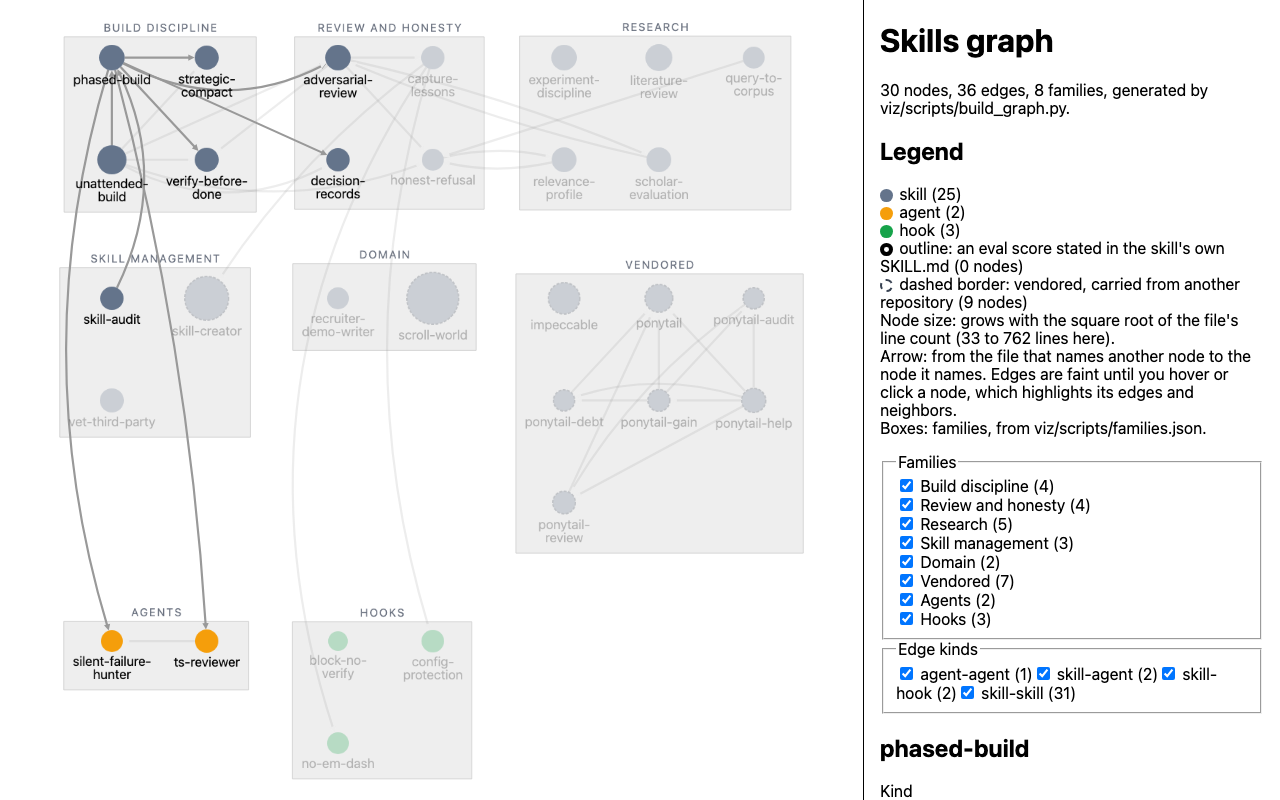
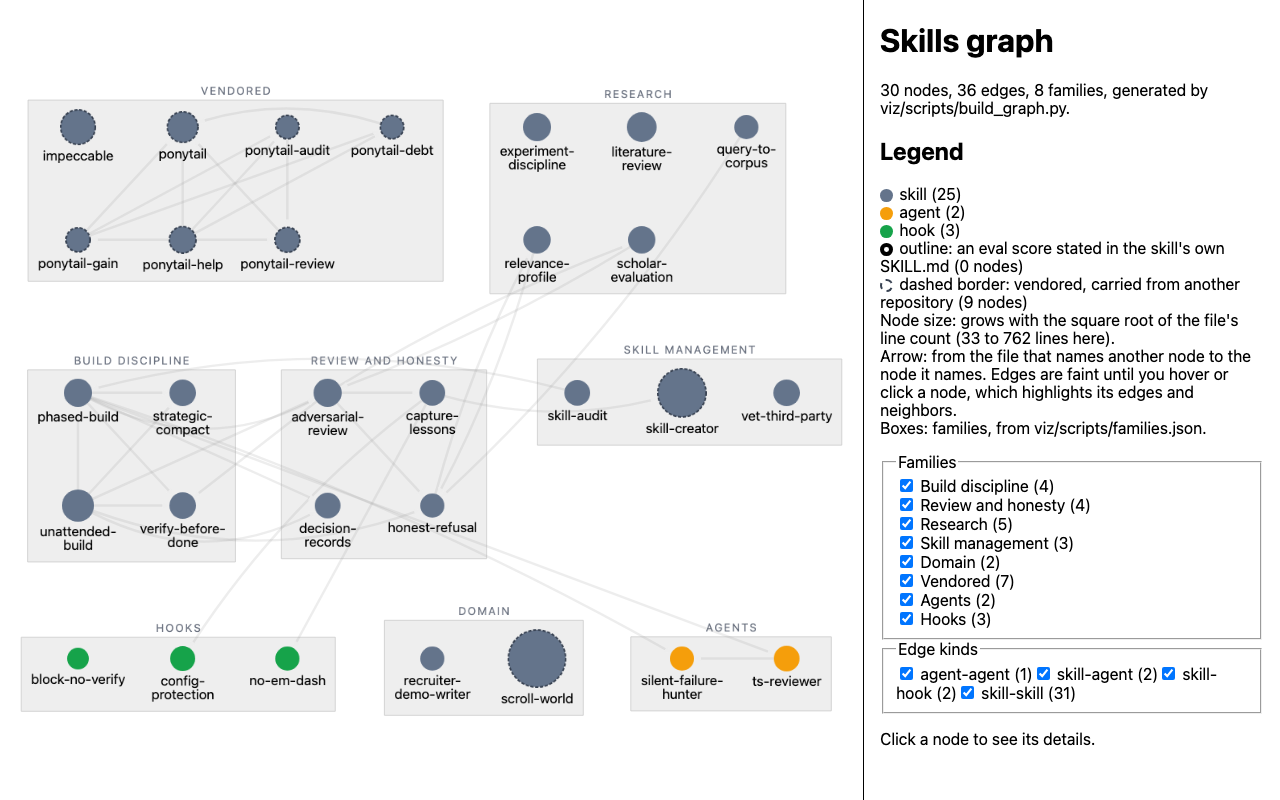
feat(viz): packed family layout and two screenshots (F7, F8)
F8: family cells are ordered by member count and packed into rows
(first fit, decreasing height), choosing the row width that fits the
viewport at the largest zoom. A family uses ceil(sqrt(n)) columns,
widened until its last row holds more than one member (7 is 4 + 3).
Smoke checks the reading order, the last rows, and that no empty
rectangle covers more than a tenth of the canvas (7.0% now; the old
layout measured 10.9%).

F7: viz/screenshot.png is the default view, nothing selected or
hovered; viz/screenshot-focus.png shows phased-build selected. Both are
written by the smoke test and shown in viz/README.md.

npm test 26 of 26; smoke exit 0 (smallest label 13.7 px).

diff --git a/viz/app.js b/viz/app.js
@@ -96,43 +96,61 @@ function toElements(graph) {
   return parents.concat(nodes, edges);
 }
 
-// Each family gets its own cell so family boxes never overlap: cells are sized
-// by member count (a near-square grid of fixed slots, one per member) and
-// arranged in a grid of cells. The number of cell columns is the one that lets
-// the whole graph fit the viewport at the largest zoom, which keeps labels as
-// large as possible. Members are placed inside their cell by Cytoscape's
-// built-in grid layout.
+// Each family gets its own cell so family boxes never overlap. A cell is a grid
+// of fixed slots, one per member. Cells are ordered by member count, largest
+// first, and packed into rows (first fit, by decreasing height). Every row width
+// in a range is tried, and the packing that fits the viewport at the largest zoom
+// wins, which fills the canvas and keeps labels as large as possible. Members are
+// placed inside their cell by Cytoscape's built-in grid layout.
 const SLOT = { w: 130, h: 140 };
 const GAP = 50;
 
-function placeCells(shapes, cols) {
-  const colW = [];
-  const rowH = [];
-  shapes.forEach((s, i) => {
-    const col = i % cols;
-    const row = Math.floor(i / cols);
-    colW[col] = Math.max(colW[col] || 0, s.w);
-    rowH[row] = Math.max(rowH[row] || 0, s.h);
-  });
-  const offset = (sizes, n) => sizes.slice(0, n).reduce((sum, size) => sum + size + GAP, 0);
-  return {
-    w: offset(colW, colW.length) - GAP,
-    h: offset(rowH, rowH.length) - GAP,
-    cells: shapes.map((s, i) => ({ ...s, x1: offset(colW, i % cols), y1: offset(rowH, Math.floor(i / cols)) })),
-  };
+// Columns per family: start at ceil(sqrt(n)) and widen until the last row holds
+// more than one member (ceil(sqrt(n)) alone leaves a lone member for n = 3 or 7).
+function familyColumns(n) {
+  if (n <= 1) return 1;
+  let cols = Math.ceil(Math.sqrt(n));
+  while (cols < n && n % cols === 1) cols += 1;
+  return cols;
+}
+
+function packRows(shapes, width) {
+  const rows = [];
+  const cells = [];
+  for (const s of shapes) {
+    let row = rows.find((r) => s.h <= r.h && r.used + (r.used ? GAP : 0) + s.w <= width);
+    if (!row) {
+      const prev = rows[rows.length - 1];
+      row = { y: prev ? prev.y + prev.h + GAP : 0, h: s.h, used: 0 };
+      rows.push(row);
+    }
+    const x1 = row.used ? row.used + GAP : 0;
+    cells.push({ ...s, x1, y1: row.y });
+    row.used = x1 + s.w;
+  }
+  const last = rows[rows.length - 1];
+  return { cells, w: Math.max(...rows.map((r) => r.used)), h: last.y + last.h };
 }
 
 function familyCells(families, aspect = 1) {
-  const shapes = families.map((f) => {
-    const c = Math.max(1, Math.ceil(Math.sqrt(f.count)));
-    const r = Math.max(1, Math.ceil(f.count / c));
-    return { id: f.id, cols: c, rows: r, w: c * SLOT.w, h: r * SLOT.h };
-  });
+  const shapes = families
+    .map((f, index) => ({ f, index }))
+    .sort((a, b) => b.f.count - a.f.count || a.index - b.index)
+    .map(({ f }) => {
+      const c = familyColumns(f.count);
+      const r = Math.max(1, Math.ceil(f.count / c));
+      return { id: f.id, count: f.count, cols: c, rows: r, w: c * SLOT.w, h: r * SLOT.h };
+    });
+  const widest = Math.max(...shapes.map((s) => s.w));
+  const total = shapes.reduce((sum, s) => sum + s.w + GAP, -GAP);
   let best = null;
-  for (let cols = 1; cols <= Math.max(1, shapes.length); cols++) {
-    const placed = placeCells(shapes, cols);
-    const scale = Math.min(aspect / placed.w, 1 / placed.h);
-    if (!best || scale > best.scale) best = { scale, cells: placed.cells };
+  for (let width = widest; width <= total; width += SLOT.w / 2) {
+    const packed = packRows(shapes, width);
+    const scale = Math.min(aspect / packed.w, 1 / packed.h);
+    const fill = shapes.reduce((sum, s) => sum + s.w * s.h, 0) / (packed.w * packed.h);
+    if (!best || scale > best.scale + 1e-9 || (Math.abs(scale - best.scale) <= 1e-9 && fill > best.fill)) {
+      best = { scale, fill, cells: packed.cells };
+    }
   }
   return best.cells;
 }
@@ -254,6 +272,7 @@ if (typeof module === 'object' && module.exports) {
     toElements,
     nodeDetails,
     familyCells,
+    familyColumns,
     layoutFamilies,
     sizeLabels,
     isMeasured,

diff --git a/viz/README.md b/viz/README.md
@@ -2,14 +2,20 @@
 
 A static page that shows every skill, agent, and hook in this repo as a node, clustered by family, with the references between them. The data in `data/graph.json` is generated from the files by `scripts/build_graph.py` and is never edited by hand.
 
+![The skills graph with nothing selected](screenshot.png)
+
+![The skills graph with phased-build selected: its edges and neighbors at full opacity, everything else dimmed](screenshot-focus.png)
+
+`screenshot.png` is the default view, with nothing selected or hovered. `screenshot-focus.png` shows `phased-build` selected, which is also what hovering a node does. Both are written by the smoke test below.
+
 - Regenerate the data: `python3 viz/scripts/build_graph.py` (from the repo root; standard library only).
 - View the page: `python3 -m http.server 8123 --bind 127.0.0.1 --directory viz`, then open http://127.0.0.1:8123/. It needs a server because the page fetches `data/graph.json`, which browsers block from `file://`. `--bind 127.0.0.1` keeps the server off the network.
 - Run the extractor tests: `python3 -m unittest discover viz/scripts`.
 - Run the page tests (no browser): `node --test viz/scripts/test_app.cjs viz/scripts/test_panel.cjs`. `test_panel.cjs` runs the real `app.js` against a small fake DOM, taps every node, and checks each detail panel against `graph.json`; it checks the page's logic, not its drawing.
 - Run the layout test (headless Cytoscape, no browser): `node --test viz/scripts/test_layout.cjs`. `npm test` in `viz/` runs all three Node test files.
-- Smoke-test the rendered page: install the dev-only Playwright once with `cd viz && PLAYWRIGHT_SKIP_BROWSER_DOWNLOAD=1 npm ci --ignore-scripts` (pinned to 1.63.0 in `viz/package.json`; it drives Chromium build 1243, which must already be in the Playwright browser cache, or run `npx playwright install chromium` to fetch it). Then, with the server above running, `node viz/scripts/smoke.mjs http://127.0.0.1:8123/`. It checks the rendered node, edge, and family counts against `graph.json`, checks that no two family boxes overlap, checks each node's color against its kind and the outline against its eval status, checks the legend, checks that the smallest node label is at least 13 px as drawn and that every family label is uppercase, letterspaced, gray, and 11 px, that no label covers a node circle, that the graph fits the viewport, and that no edge is drawn over a node it does not connect, checks every family and edge-kind filter by the exact set of elements it hides (plus one combined case), checks the opacity of every node and edge with no focus, on hover, with a selection that persists after the pointer leaves, and after clearing it, checks the outline on a copy of the data in which one skill states a score, clicks the most-connected node, checks every field and edge in the detail panel with the same contract as `test_panel.cjs` (`scripts/panel-check.cjs`), and writes `viz/screenshot.png`.
+- Smoke-test the rendered page: install the dev-only Playwright once with `cd viz && PLAYWRIGHT_SKIP_BROWSER_DOWNLOAD=1 npm ci --ignore-scripts` (pinned to 1.63.0 in `viz/package.json`; it drives Chromium build 1243, which must already be in the Playwright browser cache, or run `npx playwright install chromium` to fetch it). Then, with the server above running, `node viz/scripts/smoke.mjs http://127.0.0.1:8123/`. It checks the rendered node, edge, and family counts against `graph.json`, checks that no two family boxes overlap, that boxes read from most members to fewest, that no box ends with a lone member in its last row, and that no empty rectangle covers more than a tenth of the canvas (on a 16 by 16 grid), checks each node's color against its kind and the outline against its eval status, checks the legend, checks that the smallest node label is at least 13 px as drawn and that every family label is uppercase, letterspaced, gray, and 11 px, that no label covers a node circle, that the graph fits the viewport, and that no edge is drawn over a node it does not connect, checks every family and edge-kind filter by the exact set of elements it hides (plus one combined case), checks the opacity of every node and edge with no focus, on hover, with a selection that persists after the pointer leaves, and after clearing it, checks the outline on a copy of the data in which one skill states a score, clicks the most-connected node, checks every field and edge in the detail panel with the same contract as `test_panel.cjs` (`scripts/panel-check.cjs`), and writes `viz/screenshot.png` (nothing selected) and `viz/screenshot-focus.png` (`phased-build` selected).
 
-The page (`index.html`, `app.js`, `style.css`) uses Cytoscape.js 3.34.3, vendored in `vendor/` with its MIT license; provenance and the reason for the choice are in `docs/decisions/0001-graph-library-cytoscape.md`. Families are compound nodes; each family gets its own cell, sized by member count, and its members are placed in the cell with Cytoscape's built-in `grid` layout, animation off, so family boxes never overlap. The number of cell columns is chosen to fit the viewport's shape at the largest zoom, and the graph is fitted to the viewport on load. Edges are straight unless a straight line would pass over a node the edge does not connect, which would read as a reference that does not exist; such an edge is bent around it, and the bend is checked against the path Cytoscape actually draws. Edges are drawn faint by default; hovering a node, or selecting it with a click, draws that node's edges and neighbors at full opacity and dims every other node. Clicking empty canvas clears the selection. Nodes are colored by kind with a quiet palette: slate for skills (`#64748b`), amber for agents (`#f59e0b`), green for hooks (`#16a34a`), Tailwind's slate-500, amber-500, and green-600; a node whose own SKILL.md states an eval score gets a black outline (none does today); a vendored node gets a dashed border. Node size grows with the square root of the file's line count. Node labels sit below their node and wrap at hyphens; after the fit their size is set from the zoom so they draw at 13 px or more. Family labels are uppercase, letterspaced with thin spaces (canvas text has no letter-spacing), gray (`#6b7280`), and drawn at 11 px. A legend in the side panel says what color, outline, size, arrows, and boxes mean, and the panel filters by family and by edge kind. Otherwise styling is plain on purpose: system font, white background.
+The page (`index.html`, `app.js`, `style.css`) uses Cytoscape.js 3.34.3, vendored in `vendor/` with its MIT license; provenance and the reason for the choice are in `docs/decisions/0001-graph-library-cytoscape.md`. Families are compound nodes; each family gets its own cell, sized by member count, and its members are placed in the cell with Cytoscape's built-in `grid` layout, animation off, so family boxes never overlap. A family with n members uses ceil(sqrt(n)) columns, widened until its last row holds more than one member (so 7 members are 4 + 3, not 3 + 3 + 1). Cells are ordered by member count, largest first, and packed into rows (first fit, by decreasing height); every row width in a range is tried and the packing that fits the viewport at the largest zoom wins. The graph is fitted to the viewport on load. Edges are straight unless a straight line would pass over a node the edge does not connect, which would read as a reference that does not exist; such an edge is bent around it, and the bend is checked against the path Cytoscape actually draws. Edges are drawn faint by default; hovering a node, or selecting it with a click, draws that node's edges and neighbors at full opacity and dims every other node. Clicking empty canvas clears the selection. Nodes are colored by kind with a quiet palette: slate for skills (`#64748b`), amber for agents (`#f59e0b`), green for hooks (`#16a34a`), Tailwind's slate-500, amber-500, and green-600; a node whose own SKILL.md states an eval score gets a black outline (none does today); a vendored node gets a dashed border. Node size grows with the square root of the file's line count. Node labels sit below their node and wrap at hyphens; after the fit their size is set from the zoom so they draw at 13 px or more. Family labels are uppercase, letterspaced with thin spaces (canvas text has no letter-spacing), gray (`#6b7280`), and drawn at 11 px. A legend in the side panel says what color, outline, size, arrows, and boxes mean, and the panel filters by family and by edge kind. Otherwise styling is plain on purpose: system font, white background.
 
 ## graph.json
 
